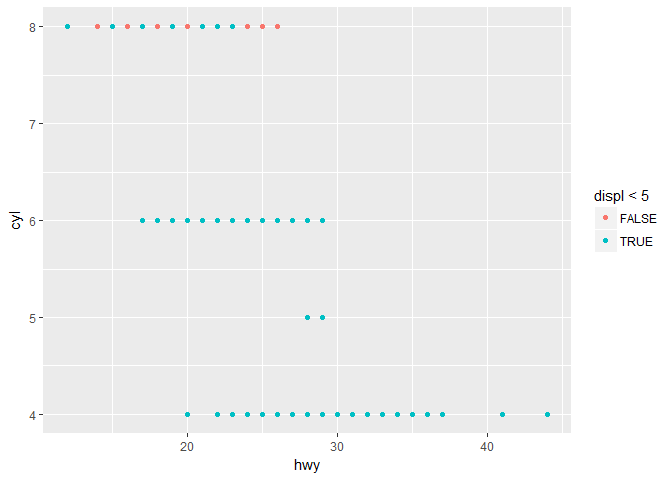
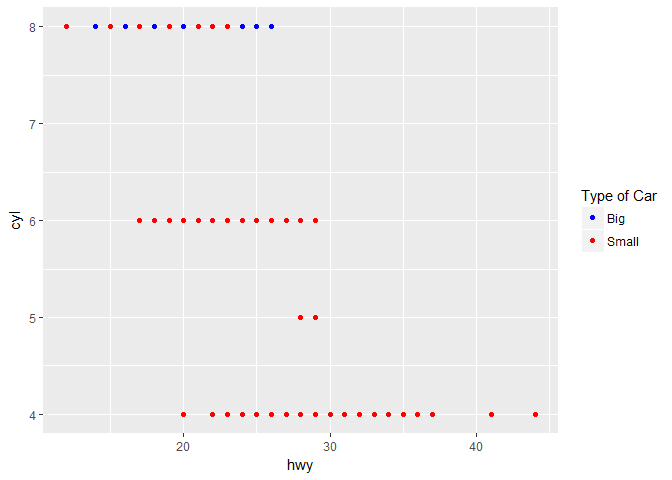
New colors

diff --git a/R-club-Apr-26/04_25_2017.html b/R-club-Apr-26/04_25_2017.html
@@ -137,8 +137,8 @@ library(tidyverse)</code></pre>
 ## lag():    dplyr, stats</code></pre>
 <pre class="r"><code>#mpg
 ggplot(data = mpg) +
-  geom_point(mapping = aes(x = displ, y = hwy))</code></pre>
[1 lines of base64/hex data omitted]
+  geom_point(mapping = aes(x = displ, y = hwy, color = class))</code></pre>
[1 lines of base64/hex data omitted]
 <p>Template<br />
 <code>ggplot(data = &lt;DATA&gt;) +</code> <code>&lt;GEOM_FUNCTION&gt;(mapping = aes(&lt;MAPPINGS&gt;))</code></p>
 <div id="exercises" class="section level3">
@@ -228,9 +228,12 @@ ggplot(data = mpg) +
 <ol start="6" style="list-style-type: decimal">
 <li>What happens if you map an aesthetic to something other than a variable name, like <code>aes(colour = displ &lt; 5)</code>?</li>
 </ol>
-<pre class="r"><code>ggplot(data = mpg) +
-  geom_point(mapping = aes(x = hwy, y = cyl, color = displ &lt; 5))</code></pre>
[1 lines of base64/hex data omitted]
+<pre class="r"><code>a &lt;- ggplot(data = mpg)
+a &lt;- a + geom_point(mapping = aes(x = hwy, y = cyl, color = displ &lt; 5))
+a &lt;- a + scale_colour_manual(labels = c(&quot;Big&quot;,&quot;Small&quot;), values = c(&quot;Blue&quot;,&quot;Red&quot;))
+a &lt;- a + labs(color = &quot;Type of Car&quot;)
+a</code></pre>
[1 lines of base64/hex data omitted]
 <p>Turns the color scheme into a boolean of either true or false</p>
 </div>
 <div id="exercises-2" class="section level3">

diff --git a/R-club-Apr-26/04_25_2017.md b/R-club-Apr-26/04_25_2017.md
@@ -32,7 +32,7 @@ library(tidyverse)
 ```r
 #mpg
 ggplot(data = mpg) +
-  geom_point(mapping = aes(x = displ, y = hwy))
+  geom_point(mapping = aes(x = displ, y = hwy, color = class))
 ```
 
 ![](04_25_2017_files/figure-html/3.2.1-1.png)<!-- -->
@@ -175,8 +175,11 @@ Stroke changes the size of the border for the points on the plot
 
 
 ```r
-ggplot(data = mpg) +
-  geom_point(mapping = aes(x = hwy, y = cyl, color = displ < 5))
+a <- ggplot(data = mpg)
+a <- a + geom_point(mapping = aes(x = hwy, y = cyl, color = displ < 5))
+a <- a + scale_colour_manual(labels = c("Big","Small"), values = c("Blue","Red"))
+a <- a + labs(color = "Type of Car")
+a
 ```
 
 ![](04_25_2017_files/figure-html/3.3.1.6-1.png)<!-- -->
